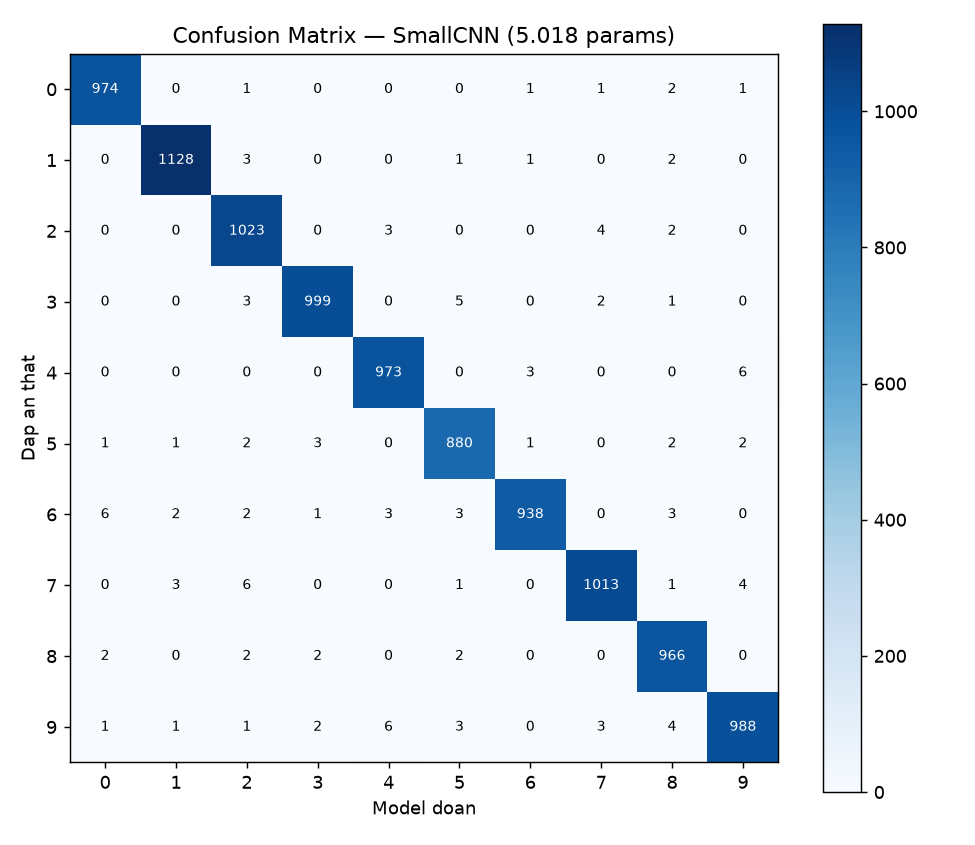
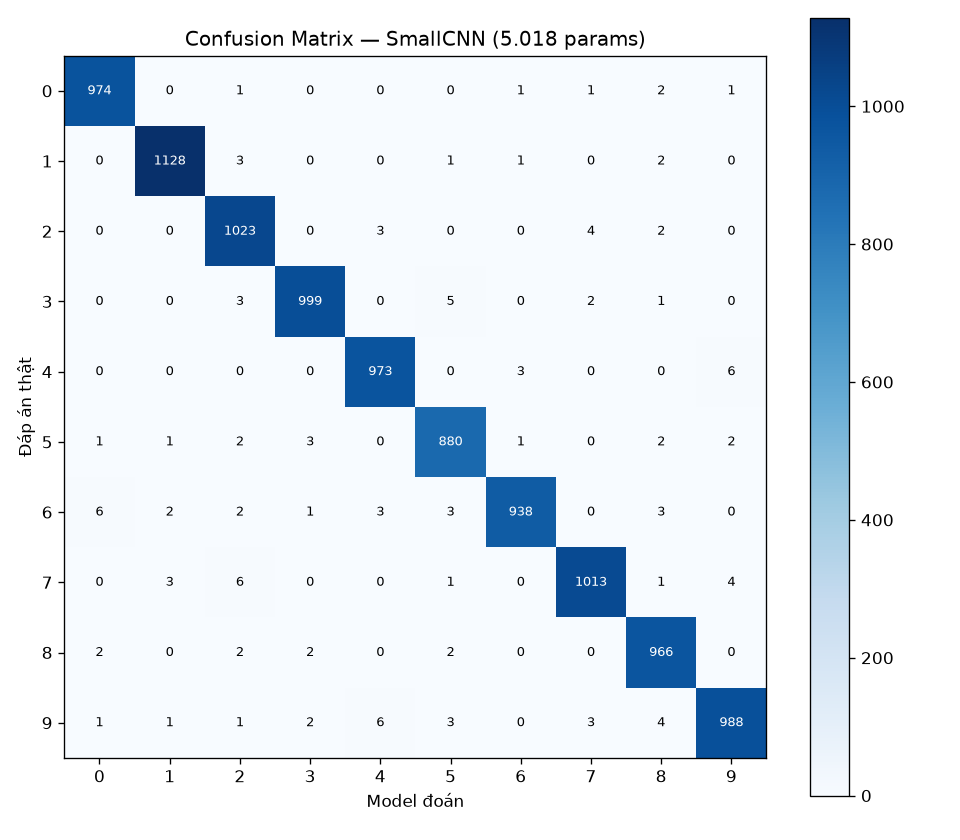
chore: hinh SmallCNN chay lai + bai tap conv params
Claude-Session: https://claude.ai/code/session_01XDEwCyCYJk3UKpHYKnxnkU

diff --git a/study/bai-tap-01-conv-params.md b/study/bai-tap-01-conv-params.md
@@ -1,0 +1,163 @@
+# Bài tập tự luyện 01 — Shape và Params
+
+**Mục đích:** chứng minh mình *suy ra được* chứ không phải *học thuộc*. Đây là loại câu Thầy dùng để phân biệt hai thứ đó.
+
+**Cách làm:**
+
+- Làm trên giấy, **không mở tài liệu, không dùng máy tính**.
+- Mỗi bài 2–3 phút. Quá 5 phút mà chưa ra → ghi "bí", chuyển bài tiếp.
+- Viết cả **cách suy ra**, không chỉ đáp số. Ra đúng số mà không giải thích được thì coi như chưa làm.
+- Làm xong hết 5 bài mới mở phần Phụ lục ở cuối.
+
+---
+
+## Bài 1 — Kiến trúc lạ, tính xuôi
+
+```
+Input 28×28×1
+
+Conv2d(1  → 12, kernel 5, padding 2)  →  ReLU  →  MaxPool2d(2, 2)
+Conv2d(12 → 24, kernel 3, padding 1)  →  ReLU  →  MaxPool2d(2, 2)
+Flatten  →  Linear(? → 10)
+```
+
+**a)** Viết chuỗi shape đầy đủ, từ `1×28×28` tới `10`.
+
+**b)** Params của từng lớp có trọng số.
+
+**c)** Tổng params.
+
+**Trả lời:**
+
+| Bước | Phép tính | Shape ra | Params |
+|---|---|---|---|
+| input | — | 1 × 28 × 28 | 0 |
+| conv1 |  |  |  |
+| pool |  |  |  |
+| conv2 |  |  |  |
+| pool |  |  |  |
+| flatten |  |  |  |
+| fc |  |  |  |
+| | | **Tổng** |  |
+
+---
+
+## Bài 2 — Tính ngược
+
+Một lớp `Conv2d` kernel 3×3 có **4.640 tham số**. Biết `out_channels = 32`.
+
+Tìm `in_channels`.
+
+> Trình bày cách suy ra từ công thức, đừng thử số cho tới khi trúng.
+
+**Trả lời:**
+
+```
+
+
+```
+
+---
+
+## Bài 3 — Bẫy floor
+
+Ảnh vào **32×32**. Đi qua:
+
+```
+Conv2d(kernel=5, padding=0, stride=1)  →  MaxPool2d(kernel=3, stride=2)
+```
+
+**a)** Shape ra sau mỗi bước.
+
+**b)** Ở bước pool, **bao nhiêu hàng và bao nhiêu cột bị bỏ hoàn toàn?** Chỉ rõ là hàng/cột nào.
+
+**Trả lời:**
+
+```
+
+
+```
+
+---
+
+## Bài 4 — Thiết kế ngược
+
+Bạn muốn lớp FC cuối (ra 10 lớp) có **không quá 2.000 tham số**.
+
+**a)** Số phần tử sau `Flatten` tối đa là bao nhiêu?
+
+**b)** Nếu feature map cuối có **32 kênh**, spatial tối đa là bao nhiêu × bao nhiêu?
+
+> Gợi ý: spatial phải là số nguyên, và thường là hình vuông.
+
+**Trả lời:**
+
+```
+
+
+```
+
+---
+
+## Bài 5 — Params vs FLOPs
+
+Lớp `conv2` của SmallCNN: `Conv2d(8 → 16, kernel 3×3, padding 1)`, chạy trên feature map **14×14**.
+
+**a)** Params của lớp này.
+
+**b)** Số phép MAC (nhân–cộng) cho một ảnh.
+
+**c)** Nếu feature map đầu vào là **28×28** thay vì 14×14:
+- params đổi bao nhiêu lần?
+- MAC đổi bao nhiêu lần?
+
+**d)** Câu c nói lên điều gì về quan hệ giữa params và FLOPs?
+
+**Trả lời:**
+
+```
+
+
+```
+
+---
+
+## Tự chấm
+
+| Bài | Đã làm | Bí ở đâu |
+|---|---|---|
+| 1 |  |  |
+| 2 |  |  |
+| 3 |  |  |
+| 4 |  |  |
+| 5 |  |  |
+
+Bài **2** và **4** là loại khó nhất vì phải đi ngược công thức. Bí hai bài này là bình thường ở lần đầu — nhưng phải làm được trước khi gặp Thầy.
+
+---
+
+## Phụ lục — CHỈ MỞ SAU KHI ĐÃ LÀM XONG
+
+<br><br><br><br><br><br><br><br><br><br>
+
+Ba công thức cần dùng, không có gì khác:
+
+```
+Kích thước đầu ra
+    H_out = floor( (H_in + 2·padding − kernel) / stride ) + 1
+
+Params của Conv2d
+    k · k · in_channels · out_channels  +  out_channels
+
+Params của Linear
+    in_features · out_features  +  out_features
+```
+
+Thêm một công thức cho bài 5:
+
+```
+MAC của một lớp conv (cho 1 ảnh)
+    k · k · in_channels · out_channels · H_out · W_out
+```
+
+Không có đáp số ở đây — làm xong gửi bài cho Claude chấm.
